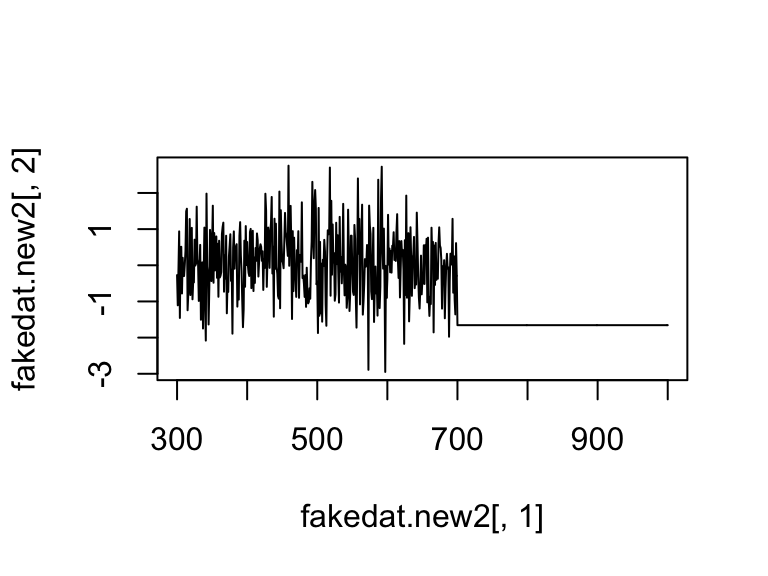
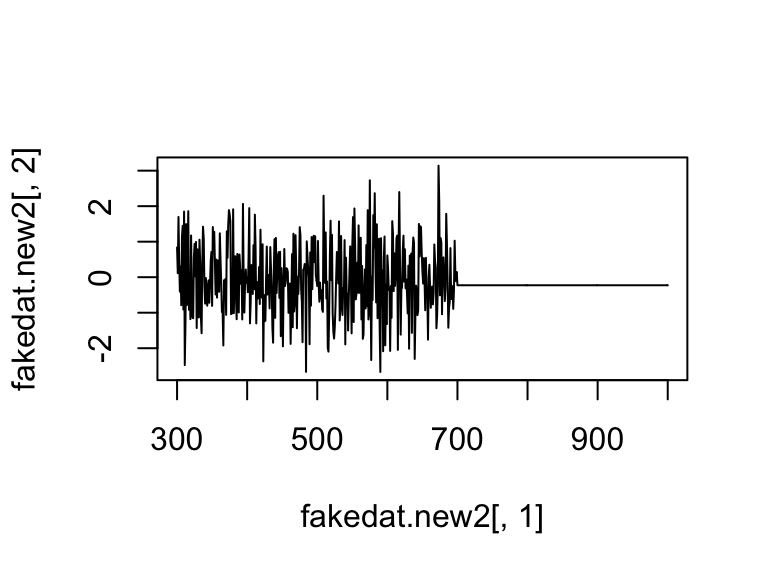
Documentaiton

diff --git a/docs/articles/pavo.html b/docs/articles/pavo.html
@@ -66,7 +66,7 @@
       <h1>pavo</h1>
                         <h4 class="author">Rafael Maia, Thomas White, Hugo Gruson, Pierre-Paul Bitton, Chad Eliason</h4>
             
-            <h4 class="date">2018-08-02</h4>
+            <h4 class="date">2018-08-30</h4>
       
       
       <div class="hidden name"><code>pavo.Rmd</code></div>
@@ -140,13 +140,13 @@
 <a class="sourceLine" id="cb8-6" data-line-number="6">  <span class="dt">wavelength =</span> <span class="kw">seq</span>(<span class="dv">300</span>, <span class="dv">700</span>, <span class="dt">by =</span> <span class="fl">.5</span>)</a>
 <a class="sourceLine" id="cb8-7" data-line-number="7">)</a>
 <a class="sourceLine" id="cb8-8" data-line-number="8"><span class="kw">head</span>(fakedat)</a></code></pre></div>
-<pre><code>##        refl1      refl2 wavelength
-## 1 -0.2717738 -1.1492521      300.0
-## 2 -1.6251267 -0.8761062      300.5
-## 3 -1.1064699 -0.9822639      301.0
-## 4 -2.6062657 -0.9572897      301.5
-## 5 -0.1132692  0.4250670      302.0
-## 6  1.4418470 -1.8073797      302.5</code></pre>
+<pre><code>##        refl1       refl2 wavelength
+## 1  0.8374899 -0.05249138      300.0
+## 2  0.2527621  0.85527833      300.5
+## 3  0.1134501  0.41464640      301.0
+## 4 -1.0493139  0.93132595      301.5
+## 5  1.6956411  0.15561069      302.0
+## 6 -0.7521044  0.60951493      302.5</code></pre>
 <div class="sourceCode" id="cb10"><pre class="sourceCode r"><code class="sourceCode r"><a class="sourceLine" id="cb10-1" data-line-number="1"><span class="kw"><a href="../reference/as.rspec.html">is.rspec</a></span>(fakedat)</a></code></pre></div>
 <pre><code>## [1] FALSE</code></pre>
 <div class="sourceCode" id="cb12"><pre class="sourceCode r"><code class="sourceCode r"><a class="sourceLine" id="cb12-1" data-line-number="1">fakedat.new &lt;-<span class="st"> </span><span class="kw"><a href="../reference/as.rspec.html">as.rspec</a></span>(fakedat)</a></code></pre></div>
@@ -154,22 +154,22 @@
 <div class="sourceCode" id="cb14"><pre class="sourceCode r"><code class="sourceCode r"><a class="sourceLine" id="cb14-1" data-line-number="1"><span class="kw"><a href="../reference/as.rspec.html">is.rspec</a></span>(fakedat.new)</a></code></pre></div>
 <pre><code>## [1] TRUE</code></pre>
 <div class="sourceCode" id="cb16"><pre class="sourceCode r"><code class="sourceCode r"><a class="sourceLine" id="cb16-1" data-line-number="1"><span class="kw">head</span>(fakedat.new)</a></code></pre></div>
-<pre><code>##    wl      refl1        refl2
-## 1 300 -0.2717738 -1.149252091
-## 2 301 -1.1064699 -0.982263943
-## 3 302 -0.1132692  0.425067046
-## 4 303  0.9369455  0.212588236
-## 5 304 -1.4559128  1.304499096
-## 6 305  0.5060648  0.006948132</code></pre>
+<pre><code>##    wl      refl1       refl2
+## 1 300  0.8374899 -0.05249138
+## 2 301  0.1134501  0.41464640
+## 3 302  1.6956411  0.15561069
+## 4 303  0.4665528 -0.14511391
+## 5 304 -0.4073117 -0.76738452
+## 6 305  0.3033306  1.02221692</code></pre>
 <p>As can be seen, <code>as.rspec</code> renames the column containing wavelengths, sets it as the first column, interpolates the data in 1-nm bins and converts the data to an <code>rspec</code> object. Note that the same output is returned with specifying <code>whichwl = 3</code>:</p>
 <div class="sourceCode" id="cb18"><pre class="sourceCode r"><code class="sourceCode r"><a class="sourceLine" id="cb18-1" data-line-number="1"><span class="kw">head</span>(<span class="kw"><a href="../reference/as.rspec.html">as.rspec</a></span>(fakedat, <span class="dt">whichwl =</span> <span class="dv">3</span>))</a></code></pre></div>
-<pre><code>##    wl      refl1        refl2
-## 1 300 -0.2717738 -1.149252091
-## 2 301 -1.1064699 -0.982263943
-## 3 302 -0.1132692  0.425067046
-## 4 303  0.9369455  0.212588236
-## 5 304 -1.4559128  1.304499096
-## 6 305  0.5060648  0.006948132</code></pre>
+<pre><code>##    wl      refl1       refl2
+## 1 300  0.8374899 -0.05249138
+## 2 301  0.1134501  0.41464640
+## 3 302  1.6956411  0.15561069
+## 4 303  0.4665528 -0.14511391
+## 5 304 -0.4073117 -0.76738452
+## 6 305  0.3033306  1.02221692</code></pre>
 <p>Finally, the <code>lim</code> argument allows you to specify the range of wavelengths contained in the input dataset. This is useful either in the case that the dataset doesn’t contain this information (and hence you cannot specify the column with <code>whichwl</code> or automatically find the column with <code>as.rspec</code>). Additionally, it may be useful to focus on a subset of wavelength. In our example, the wavelengths ranged from 300 to 700 nm, however you could also specify a restricted range of wavelengths with <code>lim</code>:</p>
 <div class="sourceCode" id="cb20"><pre class="sourceCode r"><code class="sourceCode r"><a class="sourceLine" id="cb20-1" data-line-number="1">fakedat.new2 &lt;-<span class="st"> </span><span class="kw"><a href="../reference/as.rspec.html">as.rspec</a></span>(fakedat, <span class="dt">lim =</span> <span class="kw">c</span>(<span class="dv">300</span>, <span class="dv">500</span>))</a></code></pre></div>
 <pre><code>## wavelengths found in column 3</code></pre>
@@ -1370,7 +1370,7 @@ V_{smallest}\]</span> and <span class="math display">\[V_{both} = V_{overlap} / 
 <div class="sourceCode" id="cb166"><pre class="sourceCode r"><code class="sourceCode r"><a class="sourceLine" id="cb166-1" data-line-number="1"><span class="kw"><a href="../reference/as.rimg.html">is.rimg</a></span>(butterflies)</a></code></pre></div>
 <pre><code>## [1] TRUE</code></pre>
 <div class="sourceCode" id="cb168"><pre class="sourceCode r"><code class="sourceCode r"><a class="sourceLine" id="cb168-1" data-line-number="1"><span class="kw">str</span>(butterflies[[<span class="dv">1</span>]])</a></code></pre></div>
-<pre><code>##  'rimg' num [1:500, 1:340, 1:3] 1 1 1 1 1 1 1 1 1 1 ...
+<pre><code>##  rimg [1:500, 1:340, 1:3] 1 1 1 1 1 1 1 1 1 1 ...
 ##  - attr(*, "state")= chr "raw"
 ##  - attr(*, "imgname")= chr "h_melpomene"
 ##  - attr(*, "px_scale")= logi NA
@@ -1380,7 +1380,7 @@ V_{smallest}\]</span> and <span class="math display">\[V_{both} = V_{overlap} / 
 ##  - attr(*, "colnames")= logi NA
 ##  - attr(*, "tag_loc")= logi NA</code></pre>
 <div class="sourceCode" id="cb170"><pre class="sourceCode r"><code class="sourceCode r"><a class="sourceLine" id="cb170-1" data-line-number="1"><span class="kw">str</span>(butterflies[[<span class="dv">2</span>]])</a></code></pre></div>
-<pre><code>##  'rimg' num [1:500, 1:398, 1:3] 1 1 1 1 1 1 1 1 1 1 ...
+<pre><code>##  rimg [1:500, 1:398, 1:3] 1 1 1 1 1 1 1 1 1 1 ...
 ##  - attr(*, "state")= chr "raw"
 ##  - attr(*, "imgname")= chr "papilio"
 ##  - attr(*, "px_scale")= logi NA
@@ -1400,7 +1400,7 @@ V_{smallest}\]</span> and <span class="math display">\[V_{both} = V_{overlap} / 
 <a class="sourceLine" id="cb172-8" data-line-number="8"><span class="kw"><a href="../reference/as.rimg.html">is.rimg</a></span>(fake_rimg)</a></code></pre></div>
 <pre><code>## [1] TRUE</code></pre>
 <div class="sourceCode" id="cb174"><pre class="sourceCode r"><code class="sourceCode r"><a class="sourceLine" id="cb174-1" data-line-number="1"><span class="kw">str</span>(fake_rimg)</a></code></pre></div>
-<pre><code>##  'rimg' num [1:12, 1:8, 1:3] 1 1 0 0 1 1 0 0 1 1 ...
+<pre><code>##  rimg [1:12, 1:8, 1:3] 1 1 0 0 1 1 0 0 1 1 ...
 ##  - attr(*, "state")= chr "raw"
 ##  - attr(*, "imgname")= chr "img"
 ##  - attr(*, "px_scale")= logi NA

diff --git a/docs/reference/tcsplot.html b/docs/reference/tcsplot.html
@@ -116,14 +116,15 @@ colorspace using OpenGL capabilities.</p>
     </div>
 
     <pre class="usage"><span class='fu'>tcsplot</span>(<span class='no'>tcsdata</span>, <span class='kw'>size</span> <span class='kw'>=</span> <span class='fl'>0.02</span>, <span class='kw'>alpha</span> <span class='kw'>=</span> <span class='fl'>1</span>, <span class='kw'>col</span> <span class='kw'>=</span> <span class='st'>"black"</span>,
-  <span class='kw'>vertexsize</span> <span class='kw'>=</span> <span class='fl'>0.02</span>, <span class='kw'>achro</span> <span class='kw'>=</span> <span class='fl'>TRUE</span>, <span class='kw'>achrosize</span> <span class='kw'>=</span> <span class='fl'>0.01</span>, <span class='kw'>achrocol</span> <span class='kw'>=</span> <span class='st'>"grey"</span>,
-  <span class='kw'>lwd</span> <span class='kw'>=</span> <span class='fl'>1</span>, <span class='kw'>lcol</span> <span class='kw'>=</span> <span class='st'>"lightgrey"</span>, <span class='kw'>new</span> <span class='kw'>=</span> <span class='fl'>FALSE</span>, <span class='kw'>hspin</span> <span class='kw'>=</span> <span class='fl'>FALSE</span>,
-  <span class='kw'>vspin</span> <span class='kw'>=</span> <span class='fl'>FALSE</span>, <span class='kw'>floor</span> <span class='kw'>=</span> <span class='fl'>TRUE</span>, <span class='kw'>grid</span> <span class='kw'>=</span> <span class='fl'>TRUE</span>, <span class='kw'>fill</span> <span class='kw'>=</span> <span class='fl'>TRUE</span>)
+  <span class='kw'>vertexsize</span> <span class='kw'>=</span> <span class='fl'>0.02</span>, <span class='kw'>achro</span> <span class='kw'>=</span> <span class='fl'>TRUE</span>, <span class='kw'>achrosize</span> <span class='kw'>=</span> <span class='fl'>0.01</span>,
+  <span class='kw'>achrocol</span> <span class='kw'>=</span> <span class='st'>"grey"</span>, <span class='kw'>lwd</span> <span class='kw'>=</span> <span class='fl'>1</span>, <span class='kw'>lcol</span> <span class='kw'>=</span> <span class='st'>"lightgrey"</span>, <span class='kw'>new</span> <span class='kw'>=</span> <span class='fl'>FALSE</span>,
+  <span class='kw'>hspin</span> <span class='kw'>=</span> <span class='fl'>FALSE</span>, <span class='kw'>vspin</span> <span class='kw'>=</span> <span class='fl'>FALSE</span>, <span class='kw'>floor</span> <span class='kw'>=</span> <span class='fl'>TRUE</span>, <span class='kw'>grid</span> <span class='kw'>=</span> <span class='fl'>TRUE</span>,
+  <span class='kw'>fill</span> <span class='kw'>=</span> <span class='fl'>TRUE</span>)
 
 <span class='fu'>tcspoints</span>(<span class='no'>tcsdata</span>, <span class='kw'>size</span> <span class='kw'>=</span> <span class='fl'>0.02</span>, <span class='kw'>col</span> <span class='kw'>=</span> <span class='st'>"black"</span>, <span class='kw'>alpha</span> <span class='kw'>=</span> <span class='fl'>1</span>)
 
-<span class='fu'>tcsvol</span>(<span class='no'>tcsdata</span>, <span class='kw'>col</span> <span class='kw'>=</span> <span class='st'>"black"</span>, <span class='kw'>alpha</span> <span class='kw'>=</span> <span class='fl'>0.2</span>, <span class='kw'>grid.alpha</span> <span class='kw'>=</span> <span class='fl'>1</span>, <span class='kw'>grid</span> <span class='kw'>=</span> <span class='fl'>TRUE</span>,
-  <span class='kw'>fill</span> <span class='kw'>=</span> <span class='fl'>TRUE</span>, <span class='kw'>lwd</span> <span class='kw'>=</span> <span class='fl'>1</span>)</pre>
+<span class='fu'>tcsvol</span>(<span class='no'>tcsdata</span>, <span class='kw'>col</span> <span class='kw'>=</span> <span class='st'>"black"</span>, <span class='kw'>alpha</span> <span class='kw'>=</span> <span class='fl'>0.2</span>, <span class='kw'>grid.alpha</span> <span class='kw'>=</span> <span class='fl'>1</span>,
+  <span class='kw'>grid</span> <span class='kw'>=</span> <span class='fl'>TRUE</span>, <span class='kw'>fill</span> <span class='kw'>=</span> <span class='fl'>TRUE</span>, <span class='kw'>lwd</span> <span class='kw'>=</span> <span class='fl'>1</span>)</pre>
     
     <h2 class="hasAnchor" id="arguments"><a class="anchor" href="#arguments"></a>Arguments</h2>
     <table class="ref-arguments">
@@ -228,7 +229,7 @@ using functions of the package <code>rgl</code>, based on openGL capabilities.</
 <span class='fu'>data</span>(<span class='no'>sicalis</span>)
 <span class='no'>vis.sicalis</span> <span class='kw'>&lt;-</span> <span class='fu'><a href='vismodel.html'>vismodel</a></span>(<span class='no'>sicalis</span>, <span class='kw'>visual</span> <span class='kw'>=</span> <span class='st'>'avg.uv'</span>)
 <span class='no'>tcs.sicalis</span> <span class='kw'>&lt;-</span> <span class='fu'><a href='colspace.html'>colspace</a></span>(<span class='no'>vis.sicalis</span>, <span class='kw'>space</span> <span class='kw'>=</span> <span class='st'>'tcs'</span>)
-<span class='fu'>plot</span>(<span class='no'>tcs.sicalis</span>, <span class='kw'>size</span> <span class='kw'>=</span> <span class='fl'>0.005</span>)
+<span class='fu'>tcsplot</span>(<span class='no'>tcs.sicalis</span>, <span class='kw'>size</span> <span class='kw'>=</span> <span class='fl'>0.005</span>)
 <span class='fu'>rgl.postscript</span>(<span class='st'>'testplot.pdf'</span>,<span class='kw'>fmt</span><span class='kw'>=</span><span class='st'>'pdf'</span>)
 <span class='fu'>rgl.snapshot</span>(<span class='st'>'testplot.png'</span>)
 
@@ -236,12 +237,12 @@ using functions of the package <code>rgl</code>, based on openGL capabilities.</
 <span class='no'>patch</span> <span class='kw'>&lt;-</span> <span class='fu'>rep</span>(<span class='fu'>c</span>(<span class='st'>'C'</span>, <span class='st'>'T'</span>, <span class='st'>'B'</span>), <span class='fl'>7</span>)
 <span class='no'>tcs.crown</span> <span class='kw'>&lt;-</span> <span class='fu'>subset</span>(<span class='no'>tcs.sicalis</span>, <span class='st'>'C'</span>)
 <span class='no'>tcs.breast</span> <span class='kw'>&lt;-</span> <span class='fu'>subset</span>(<span class='no'>tcs.sicalis</span>, <span class='st'>'B'</span>)
-<span class='fu'>plot</span>(<span class='no'>tcs.crown</span>, <span class='kw'>col</span> <span class='kw'>=</span><span class='st'>'blue'</span>)
-<span class='fu'>points</span>(<span class='no'>tcs.breast</span>, <span class='kw'>col</span> <span class='kw'>=</span><span class='st'>'red'</span>)
+<span class='fu'>tcsplot</span>(<span class='no'>tcs.crown</span>, <span class='kw'>col</span> <span class='kw'>=</span><span class='st'>'blue'</span>)
+<span class='fu'>tcspoints</span>(<span class='no'>tcs.breast</span>, <span class='kw'>col</span> <span class='kw'>=</span><span class='st'>'red'</span>)
 
 <span class='co'># For plotting convex hull</span>
-<span class='fu'>plot</span>(<span class='no'>tcs.sicalis</span>, <span class='kw'>col</span> <span class='kw'>=</span> <span class='st'>'blue'</span>, <span class='kw'>size</span> <span class='kw'>=</span> <span class='fl'>0.005</span>)
-<span class='fu'><a href='vol.html'>vol</a></span>(<span class='no'>tcs.sicalis</span>)
+<span class='fu'>tcsplot</span>(<span class='no'>tcs.sicalis</span>, <span class='kw'>col</span> <span class='kw'>=</span> <span class='st'>'blue'</span>, <span class='kw'>size</span> <span class='kw'>=</span> <span class='fl'>0.005</span>)
+<span class='fu'>tcsvol</span>(<span class='no'>tcs.sicalis</span>)
 <span class='co'># }</span><div class='input'>
 </div></pre>
   </div>

diff --git a/docs/reference/tetraplot.html b/docs/reference/tetraplot.html
@@ -111,10 +111,11 @@
 
     <pre class="usage"><span class='fu'>tetraplot</span>(<span class='no'>tcsdata</span>, <span class='kw'>theta</span> <span class='kw'>=</span> <span class='fl'>45</span>, <span class='kw'>phi</span> <span class='kw'>=</span> <span class='fl'>10</span>, <span class='kw'>perspective</span> <span class='kw'>=</span> <span class='fl'>FALSE</span>,
   <span class='kw'>range</span> <span class='kw'>=</span> <span class='fu'>c</span>(<span class='fl'>1</span>, <span class='fl'>2</span>), <span class='kw'>r</span> <span class='kw'>=</span> <span class='fl'>1e+06</span>, <span class='kw'>zoom</span> <span class='kw'>=</span> <span class='fl'>1</span>, <span class='kw'>achro</span> <span class='kw'>=</span> <span class='fl'>TRUE</span>,
-  <span class='kw'>achro.col</span> <span class='kw'>=</span> <span class='st'>"grey"</span>, <span class='kw'>achro.size</span> <span class='kw'>=</span> <span class='fl'>1</span>, <span class='kw'>achro.line</span> <span class='kw'>=</span> <span class='fl'>FALSE</span>, <span class='kw'>achro.lwd</span> <span class='kw'>=</span> <span class='fl'>1</span>,
-  <span class='kw'>achro.lty</span> <span class='kw'>=</span> <span class='fl'>3</span>, <span class='kw'>tetrahedron</span> <span class='kw'>=</span> <span class='fl'>TRUE</span>, <span class='kw'>vert.cex</span> <span class='kw'>=</span> <span class='fl'>1</span>, <span class='kw'>vert.range</span> <span class='kw'>=</span> <span class='fu'>c</span>(<span class='fl'>1</span>, <span class='fl'>2</span>),
-  <span class='kw'>out.lwd</span> <span class='kw'>=</span> <span class='fl'>1</span>, <span class='kw'>out.lcol</span> <span class='kw'>=</span> <span class='st'>"darkgrey"</span>, <span class='kw'>margin</span> <span class='kw'>=</span> <span class='fu'>c</span>(<span class='fl'>0</span>, <span class='fl'>0</span>, <span class='fl'>0</span>, <span class='fl'>0</span>),
-  <span class='kw'>type</span> <span class='kw'>=</span> <span class='st'>"p"</span>, <span class='no'>view</span>, <span class='no'>scale.y</span>, <span class='no'>axis</span>, <span class='no'>grid</span>, <span class='no'>vertexsize</span>, <span class='no'>...</span>)</pre>
+  <span class='kw'>achro.col</span> <span class='kw'>=</span> <span class='st'>"grey"</span>, <span class='kw'>achro.size</span> <span class='kw'>=</span> <span class='fl'>1</span>, <span class='kw'>achro.line</span> <span class='kw'>=</span> <span class='fl'>FALSE</span>,
+  <span class='kw'>achro.lwd</span> <span class='kw'>=</span> <span class='fl'>1</span>, <span class='kw'>achro.lty</span> <span class='kw'>=</span> <span class='fl'>3</span>, <span class='kw'>tetrahedron</span> <span class='kw'>=</span> <span class='fl'>TRUE</span>, <span class='kw'>vert.cex</span> <span class='kw'>=</span> <span class='fl'>1</span>,
+  <span class='kw'>vert.range</span> <span class='kw'>=</span> <span class='fu'>c</span>(<span class='fl'>1</span>, <span class='fl'>2</span>), <span class='kw'>out.lwd</span> <span class='kw'>=</span> <span class='fl'>1</span>, <span class='kw'>out.lcol</span> <span class='kw'>=</span> <span class='st'>"darkgrey"</span>,
+  <span class='kw'>margin</span> <span class='kw'>=</span> <span class='fu'>c</span>(<span class='fl'>0</span>, <span class='fl'>0</span>, <span class='fl'>0</span>, <span class='fl'>0</span>), <span class='kw'>type</span> <span class='kw'>=</span> <span class='st'>"p"</span>, <span class='no'>view</span>, <span class='no'>scale.y</span>, <span class='no'>axis</span>, <span class='no'>grid</span>,
+  <span class='no'>vertexsize</span>, <span class='kw'>labels</span> <span class='kw'>=</span> <span class='fl'>FALSE</span>, <span class='no'>...</span>)</pre>
     
     <h2 class="hasAnchor" id="arguments"><a class="anchor" href="#arguments"></a>Arguments</h2>
     <table class="ref-arguments">
@@ -158,8 +159,8 @@ See <code>persp</code> for details.</p></td>
       <td><p>logical. Should the achromatic center be plotted? (defaults to <code>TRUE</code>)</p></td>
     </tr>
     <tr>
-      <th>achro.col, </th>
-      <td><p>achro.size, achro.lwd, achro.lty graphical parameters for the achromatic coordinates.</p></td>
+      <th>achro.col, achro.size, achro.lwd, achro.lty</th>
+      <td><p>graphical parameters for the achromatic coordinates.</p></td>
     </tr>
     <tr>
       <th>achro.line</th>
@@ -174,8 +175,8 @@ See <code>persp</code> for details.</p></td>
       <td><p>size of the points at the vertices (defaults to 1).</p></td>
     </tr>
     <tr>
-      <th>out.lwd, </th>
-      <td><p>out.lcol graphical parameters for the tetrahedral outline.</p></td>
+      <th>out.lwd, out.lcol</th>
+      <td><p>graphical parameters for the tetrahedral outline.</p></td>
     </tr>
     <tr>
       <th>margin</th>
@@ -187,8 +188,13 @@ See <code>persp</code> for details.</p></td>
 the base of the tetrahedron.</p></td>
     </tr>
     <tr>
-      <th>view, </th>
-      <td><p>scale.y, axis, grid deprecated arguments.</p></td>
+      <th>view, scale.y, axis, grid</th>
+      <td><p>deprecated arguments.</p></td>
+    </tr>
+    <tr>
+      <th>labels</th>
+      <td><p>logical. Should the name of each cone be printed next to the
+corresponding vertex?</p></td>
     </tr>
     </table>
     

diff --git a/docs/reference/vismodel.html b/docs/reference/vismodel.html
@@ -111,13 +111,14 @@ can be returned, for use in a suite of colorspace and non-colorspace models.</p>
     
     </div>
 
-    <pre class="usage"><span class='fu'>vismodel</span>(<span class='no'>rspecdata</span>, <span class='kw'>visual</span> <span class='kw'>=</span> <span class='fu'>c</span>(<span class='st'>"avg.uv"</span>, <span class='st'>"avg.v"</span>, <span class='st'>"bluetit"</span>, <span class='st'>"ctenophorus"</span>,
-  <span class='st'>"star"</span>, <span class='st'>"pfowl"</span>, <span class='st'>"apis"</span>, <span class='st'>"canis"</span>, <span class='st'>"cie2"</span>, <span class='st'>"cie10"</span>, <span class='st'>"musca"</span>, <span class='st'>"segment"</span>,
-  <span class='st'>"habronattus"</span>, <span class='st'>"rhinecanthus"</span>), <span class='kw'>achromatic</span> <span class='kw'>=</span> <span class='fu'>c</span>(<span class='st'>"none"</span>, <span class='st'>"bt.dc"</span>, <span class='st'>"ch.dc"</span>,
-  <span class='st'>"st.dc"</span>, <span class='st'>"md.r1"</span>, <span class='st'>"ra.dc"</span>, <span class='st'>"ml"</span>, <span class='st'>"l"</span>, <span class='st'>"all"</span>), <span class='kw'>illum</span> <span class='kw'>=</span> <span class='fu'>c</span>(<span class='st'>"ideal"</span>, <span class='st'>"bluesky"</span>,
-  <span class='st'>"D65"</span>, <span class='st'>"forestshade"</span>), <span class='kw'>trans</span> <span class='kw'>=</span> <span class='fu'>c</span>(<span class='st'>"ideal"</span>, <span class='st'>"bluetit"</span>, <span class='st'>"blackbird"</span>),
-  <span class='kw'>qcatch</span> <span class='kw'>=</span> <span class='fu'>c</span>(<span class='st'>"Qi"</span>, <span class='st'>"fi"</span>, <span class='st'>"Ei"</span>), <span class='kw'>bkg</span> <span class='kw'>=</span> <span class='fu'>c</span>(<span class='st'>"ideal"</span>, <span class='st'>"green"</span>),
-  <span class='kw'>vonkries</span> <span class='kw'>=</span> <span class='fl'>FALSE</span>, <span class='kw'>scale</span> <span class='kw'>=</span> <span class='fl'>1</span>, <span class='kw'>relative</span> <span class='kw'>=</span> <span class='fl'>TRUE</span>)</pre>
+    <pre class="usage"><span class='fu'>vismodel</span>(<span class='no'>rspecdata</span>, <span class='kw'>visual</span> <span class='kw'>=</span> <span class='fu'>c</span>(<span class='st'>"avg.uv"</span>, <span class='st'>"avg.v"</span>, <span class='st'>"bluetit"</span>,
+  <span class='st'>"ctenophorus"</span>, <span class='st'>"star"</span>, <span class='st'>"pfowl"</span>, <span class='st'>"apis"</span>, <span class='st'>"canis"</span>, <span class='st'>"cie2"</span>, <span class='st'>"cie10"</span>,
+  <span class='st'>"musca"</span>, <span class='st'>"segment"</span>, <span class='st'>"habronattus"</span>, <span class='st'>"rhinecanthus"</span>),
+  <span class='kw'>achromatic</span> <span class='kw'>=</span> <span class='fu'>c</span>(<span class='st'>"none"</span>, <span class='st'>"bt.dc"</span>, <span class='st'>"ch.dc"</span>, <span class='st'>"st.dc"</span>, <span class='st'>"md.r1"</span>, <span class='st'>"ra.dc"</span>,
+  <span class='st'>"ml"</span>, <span class='st'>"l"</span>, <span class='st'>"all"</span>), <span class='kw'>illum</span> <span class='kw'>=</span> <span class='fu'>c</span>(<span class='st'>"ideal"</span>, <span class='st'>"bluesky"</span>, <span class='st'>"D65"</span>, <span class='st'>"forestshade"</span>),
+  <span class='kw'>trans</span> <span class='kw'>=</span> <span class='fu'>c</span>(<span class='st'>"ideal"</span>, <span class='st'>"bluetit"</span>, <span class='st'>"blackbird"</span>), <span class='kw'>qcatch</span> <span class='kw'>=</span> <span class='fu'>c</span>(<span class='st'>"Qi"</span>, <span class='st'>"fi"</span>,
+  <span class='st'>"Ei"</span>), <span class='kw'>bkg</span> <span class='kw'>=</span> <span class='fu'>c</span>(<span class='st'>"ideal"</span>, <span class='st'>"green"</span>), <span class='kw'>vonkries</span> <span class='kw'>=</span> <span class='fl'>FALSE</span>, <span class='kw'>scale</span> <span class='kw'>=</span> <span class='fl'>1</span>,
+  <span class='kw'>relative</span> <span class='kw'>=</span> <span class='fl'>TRUE</span>)</pre>
     
     <h2 class="hasAnchor" id="arguments"><a class="anchor" href="#arguments"></a>Arguments</h2>
     <table class="ref-arguments">

diff --git a/docs/reference/sensdata.html b/docs/reference/sensdata.html
@@ -110,11 +110,11 @@
     </div>
 
     <pre class="usage"><span class='fu'>sensdata</span>(<span class='kw'>visual</span> <span class='kw'>=</span> <span class='fu'>c</span>(<span class='st'>"none"</span>, <span class='st'>"all"</span>, <span class='st'>"avg.uv"</span>, <span class='st'>"avg.v"</span>, <span class='st'>"bluetit"</span>,
-  <span class='st'>"ctenophorus"</span>, <span class='st'>"star"</span>, <span class='st'>"pfowl"</span>, <span class='st'>"apis"</span>, <span class='st'>"canis"</span>, <span class='st'>"cie2"</span>, <span class='st'>"cie10"</span>, <span class='st'>"musca"</span>,
-  <span class='st'>"habronattus"</span>, <span class='st'>"rhinecanthus"</span>), <span class='kw'>achromatic</span> <span class='kw'>=</span> <span class='fu'>c</span>(<span class='st'>"none"</span>, <span class='st'>"all"</span>, <span class='st'>"bt.dc"</span>,
-  <span class='st'>"ch.dc"</span>, <span class='st'>"st.dc"</span>, <span class='st'>"md.r1"</span>, <span class='st'>"ra.dc"</span>), <span class='kw'>illum</span> <span class='kw'>=</span> <span class='fu'>c</span>(<span class='st'>"none"</span>, <span class='st'>"all"</span>, <span class='st'>"bluesky"</span>,
-  <span class='st'>"D65"</span>, <span class='st'>"forestshade"</span>), <span class='kw'>trans</span> <span class='kw'>=</span> <span class='fu'>c</span>(<span class='st'>"none"</span>, <span class='st'>"all"</span>, <span class='st'>"bluetit"</span>, <span class='st'>"blackbird"</span>),
-  <span class='kw'>bkg</span> <span class='kw'>=</span> <span class='fu'>c</span>(<span class='st'>"none"</span>, <span class='st'>"all"</span>, <span class='st'>"green"</span>), <span class='kw'>plot</span> <span class='kw'>=</span> <span class='fl'>FALSE</span>, <span class='no'>...</span>)</pre>
+  <span class='st'>"ctenophorus"</span>, <span class='st'>"star"</span>, <span class='st'>"pfowl"</span>, <span class='st'>"apis"</span>, <span class='st'>"canis"</span>, <span class='st'>"cie2"</span>, <span class='st'>"cie10"</span>,
+  <span class='st'>"musca"</span>, <span class='st'>"habronattus"</span>, <span class='st'>"rhinecanthus"</span>), <span class='kw'>achromatic</span> <span class='kw'>=</span> <span class='fu'>c</span>(<span class='st'>"none"</span>, <span class='st'>"all"</span>,
+  <span class='st'>"bt.dc"</span>, <span class='st'>"ch.dc"</span>, <span class='st'>"st.dc"</span>, <span class='st'>"md.r1"</span>, <span class='st'>"ra.dc"</span>), <span class='kw'>illum</span> <span class='kw'>=</span> <span class='fu'>c</span>(<span class='st'>"none"</span>, <span class='st'>"all"</span>,
+  <span class='st'>"bluesky"</span>, <span class='st'>"D65"</span>, <span class='st'>"forestshade"</span>), <span class='kw'>trans</span> <span class='kw'>=</span> <span class='fu'>c</span>(<span class='st'>"none"</span>, <span class='st'>"all"</span>, <span class='st'>"bluetit"</span>,
+  <span class='st'>"blackbird"</span>), <span class='kw'>bkg</span> <span class='kw'>=</span> <span class='fu'>c</span>(<span class='st'>"none"</span>, <span class='st'>"all"</span>, <span class='st'>"green"</span>), <span class='kw'>plot</span> <span class='kw'>=</span> <span class='fl'>FALSE</span>, <span class='no'>...</span>)</pre>
     
     <h2 class="hasAnchor" id="arguments"><a class="anchor" href="#arguments"></a>Arguments</h2>
     <table class="ref-arguments">

diff --git a/docs/reference/axistetra.html b/docs/reference/axistetra.html
@@ -112,9 +112,9 @@ the axes in a static tetrahedral colorspace plot.</p>
     </div>
 
     <pre class="usage"><span class='fu'>axistetra</span>(<span class='kw'>x</span> <span class='kw'>=</span> <span class='fl'>0</span>, <span class='kw'>y</span> <span class='kw'>=</span> <span class='fl'>1.3</span>, <span class='kw'>size</span> <span class='kw'>=</span> <span class='fl'>0.1</span>, <span class='kw'>arrowhead</span> <span class='kw'>=</span> <span class='fl'>0.05</span>,
-  <span class='kw'>col</span> <span class='kw'>=</span> <span class='fu'>par</span>(<span class='st'>"fg"</span>), <span class='kw'>lty</span> <span class='kw'>=</span> <span class='fu'>par</span>(<span class='st'>"lty"</span>), <span class='kw'>lwd</span> <span class='kw'>=</span> <span class='fu'>par</span>(<span class='st'>"lwd"</span>), <span class='kw'>label</span> <span class='kw'>=</span> <span class='fl'>TRUE</span>,
-  <span class='kw'>adj.label</span> <span class='kw'>=</span> <span class='fu'>list</span>(<span class='kw'>x</span> <span class='kw'>=</span> <span class='fu'>c</span>(<span class='fl'>0.003</span>, <span class='fl'>0</span>), <span class='kw'>y</span> <span class='kw'>=</span> <span class='fu'>c</span>(<span class='fl'>0.003</span>, <span class='fl'>0.003</span>), <span class='kw'>z</span> <span class='kw'>=</span> <span class='fu'>c</span>(<span class='fl'>0</span>, <span class='fl'>0.003</span>)),
-  <span class='kw'>label.cex</span> <span class='kw'>=</span> <span class='fl'>1</span>, <span class='kw'>label.col</span> <span class='kw'>=</span> <span class='kw'>NULL</span>)</pre>
+  <span class='kw'>col</span> <span class='kw'>=</span> <span class='fu'>par</span>(<span class='st'>"fg"</span>), <span class='kw'>lty</span> <span class='kw'>=</span> <span class='fu'>par</span>(<span class='st'>"lty"</span>), <span class='kw'>lwd</span> <span class='kw'>=</span> <span class='fu'>par</span>(<span class='st'>"lwd"</span>),
+  <span class='kw'>label</span> <span class='kw'>=</span> <span class='fl'>TRUE</span>, <span class='kw'>adj.label</span> <span class='kw'>=</span> <span class='fu'>list</span>(<span class='kw'>x</span> <span class='kw'>=</span> <span class='fu'>c</span>(<span class='fl'>0.003</span>, <span class='fl'>0</span>), <span class='kw'>y</span> <span class='kw'>=</span> <span class='fu'>c</span>(<span class='fl'>0.003</span>, <span class='fl'>0.003</span>),
+  <span class='kw'>z</span> <span class='kw'>=</span> <span class='fu'>c</span>(<span class='fl'>0</span>, <span class='fl'>0.003</span>)), <span class='kw'>label.cex</span> <span class='kw'>=</span> <span class='fl'>1</span>, <span class='kw'>label.col</span> <span class='kw'>=</span> <span class='kw'>NULL</span>)</pre>
     
     <h2 class="hasAnchor" id="arguments"><a class="anchor" href="#arguments"></a>Arguments</h2>
     <table class="ref-arguments">

diff --git a/docs/reference/cocplot.html b/docs/reference/cocplot.html
@@ -109,9 +109,9 @@
     
     </div>
 
-    <pre class="usage"><span class='fu'>cocplot</span>(<span class='no'>cocdata</span>, <span class='kw'>labels</span> <span class='kw'>=</span> <span class='fl'>TRUE</span>, <span class='kw'>labels.cex</span> <span class='kw'>=</span> <span class='fl'>0.9</span>, <span class='kw'>tick.loc</span> <span class='kw'>=</span> <span class='fu'>c</span>(-<span class='fl'>12</span>, -<span class='fl'>9</span>,
-  -<span class='fl'>6</span>, -<span class='fl'>3</span>, <span class='fl'>3</span>, <span class='fl'>6</span>, <span class='fl'>9</span>, <span class='fl'>12</span>), <span class='kw'>achro</span> <span class='kw'>=</span> <span class='fl'>FALSE</span>, <span class='kw'>achrosize</span> <span class='kw'>=</span> <span class='fl'>0.8</span>, <span class='kw'>achrocol</span> <span class='kw'>=</span> <span class='st'>"grey"</span>,
-  <span class='kw'>margins</span> <span class='kw'>=</span> <span class='fu'>c</span>(<span class='fl'>1</span>, <span class='fl'>1</span>, <span class='fl'>2</span>, <span class='fl'>2</span>), <span class='kw'>square</span> <span class='kw'>=</span> <span class='fl'>TRUE</span>, <span class='no'>...</span>)</pre>
+    <pre class="usage"><span class='fu'>cocplot</span>(<span class='no'>cocdata</span>, <span class='kw'>labels</span> <span class='kw'>=</span> <span class='fl'>TRUE</span>, <span class='kw'>labels.cex</span> <span class='kw'>=</span> <span class='fl'>0.9</span>, <span class='kw'>tick.loc</span> <span class='kw'>=</span> <span class='fu'>c</span>(-<span class='fl'>12</span>,
+  -<span class='fl'>9</span>, -<span class='fl'>6</span>, -<span class='fl'>3</span>, <span class='fl'>3</span>, <span class='fl'>6</span>, <span class='fl'>9</span>, <span class='fl'>12</span>), <span class='kw'>achro</span> <span class='kw'>=</span> <span class='fl'>FALSE</span>, <span class='kw'>achrosize</span> <span class='kw'>=</span> <span class='fl'>0.8</span>,
+  <span class='kw'>achrocol</span> <span class='kw'>=</span> <span class='st'>"grey"</span>, <span class='kw'>margins</span> <span class='kw'>=</span> <span class='fu'>c</span>(<span class='fl'>1</span>, <span class='fl'>1</span>, <span class='fl'>2</span>, <span class='fl'>2</span>), <span class='kw'>square</span> <span class='kw'>=</span> <span class='fl'>TRUE</span>, <span class='no'>...</span>)</pre>
     
     <h2 class="hasAnchor" id="arguments"><a class="anchor" href="#arguments"></a>Arguments</h2>
     <table class="ref-arguments">

diff --git a/docs/reference/segplot.html b/docs/reference/segplot.html
@@ -109,9 +109,9 @@
     
     </div>
 
-    <pre class="usage"><span class='fu'>segplot</span>(<span class='no'>segdata</span>, <span class='kw'>labels</span> <span class='kw'>=</span> <span class='fl'>TRUE</span>, <span class='kw'>lab.cex</span> <span class='kw'>=</span> <span class='fl'>0.9</span>, <span class='kw'>out.lwd</span> <span class='kw'>=</span> <span class='fl'>1</span>, <span class='kw'>out.lty</span> <span class='kw'>=</span> <span class='fl'>1</span>,
-  <span class='kw'>out.lcol</span> <span class='kw'>=</span> <span class='st'>"black"</span>, <span class='kw'>tick.loc</span> <span class='kw'>=</span> <span class='fu'>c</span>(-<span class='fl'>1</span>, -<span class='fl'>0.5</span>, <span class='fl'>0.5</span>, <span class='fl'>1</span>), <span class='kw'>margins</span> <span class='kw'>=</span> <span class='fu'>c</span>(<span class='fl'>1</span>, <span class='fl'>1</span>, <span class='fl'>2</span>,
-  <span class='fl'>2</span>), <span class='kw'>square</span> <span class='kw'>=</span> <span class='fl'>TRUE</span>, <span class='no'>...</span>)</pre>
+    <pre class="usage"><span class='fu'>segplot</span>(<span class='no'>segdata</span>, <span class='kw'>labels</span> <span class='kw'>=</span> <span class='fl'>TRUE</span>, <span class='kw'>lab.cex</span> <span class='kw'>=</span> <span class='fl'>0.9</span>, <span class='kw'>out.lwd</span> <span class='kw'>=</span> <span class='fl'>1</span>,
+  <span class='kw'>out.lty</span> <span class='kw'>=</span> <span class='fl'>1</span>, <span class='kw'>out.lcol</span> <span class='kw'>=</span> <span class='st'>"black"</span>, <span class='kw'>tick.loc</span> <span class='kw'>=</span> <span class='fu'>c</span>(-<span class='fl'>1</span>, -<span class='fl'>0.5</span>, <span class='fl'>0.5</span>, <span class='fl'>1</span>),
+  <span class='kw'>margins</span> <span class='kw'>=</span> <span class='fu'>c</span>(<span class='fl'>1</span>, <span class='fl'>1</span>, <span class='fl'>2</span>, <span class='fl'>2</span>), <span class='kw'>square</span> <span class='kw'>=</span> <span class='fl'>TRUE</span>, <span class='no'>...</span>)</pre>
     
     <h2 class="hasAnchor" id="arguments"><a class="anchor" href="#arguments"></a>Arguments</h2>
     <table class="ref-arguments">

diff --git a/docs/reference/hexplot.html b/docs/reference/hexplot.html
@@ -109,8 +109,8 @@
     
     </div>
 
-    <pre class="usage"><span class='fu'>hexplot</span>(<span class='no'>hexdata</span>, <span class='kw'>achro</span> <span class='kw'>=</span> <span class='fl'>TRUE</span>, <span class='kw'>labels</span> <span class='kw'>=</span> <span class='fl'>TRUE</span>, <span class='kw'>sectors</span> <span class='kw'>=</span> <span class='fu'>c</span>(<span class='st'>"none"</span>, <span class='st'>"fine"</span>,
-  <span class='st'>"coarse"</span>), <span class='kw'>sec.col</span> <span class='kw'>=</span> <span class='st'>"grey"</span>, <span class='kw'>out.lwd</span> <span class='kw'>=</span> <span class='fl'>1</span>, <span class='kw'>out.lty</span> <span class='kw'>=</span> <span class='fl'>1</span>,
+    <pre class="usage"><span class='fu'>hexplot</span>(<span class='no'>hexdata</span>, <span class='kw'>achro</span> <span class='kw'>=</span> <span class='fl'>TRUE</span>, <span class='kw'>labels</span> <span class='kw'>=</span> <span class='fl'>TRUE</span>, <span class='kw'>sectors</span> <span class='kw'>=</span> <span class='fu'>c</span>(<span class='st'>"none"</span>,
+  <span class='st'>"fine"</span>, <span class='st'>"coarse"</span>), <span class='kw'>sec.col</span> <span class='kw'>=</span> <span class='st'>"grey"</span>, <span class='kw'>out.lwd</span> <span class='kw'>=</span> <span class='fl'>1</span>, <span class='kw'>out.lty</span> <span class='kw'>=</span> <span class='fl'>1</span>,
   <span class='kw'>out.lcol</span> <span class='kw'>=</span> <span class='st'>"black"</span>, <span class='kw'>labels.cex</span> <span class='kw'>=</span> <span class='fl'>1</span>, <span class='kw'>achrosize</span> <span class='kw'>=</span> <span class='fl'>0.8</span>,
   <span class='kw'>achrocol</span> <span class='kw'>=</span> <span class='st'>"grey"</span>, <span class='kw'>margins</span> <span class='kw'>=</span> <span class='fu'>c</span>(<span class='fl'>1</span>, <span class='fl'>1</span>, <span class='fl'>2</span>, <span class='fl'>2</span>), <span class='kw'>square</span> <span class='kw'>=</span> <span class='fl'>TRUE</span>, <span class='no'>...</span>)</pre>
     

diff --git a/docs/reference/jnd2xyz.html b/docs/reference/jnd2xyz.html
@@ -111,9 +111,9 @@ perceptually-corrected (i.e. Euclidean distances = JND distances)</p>
     
     </div>
 
-    <pre class="usage"><span class='fu'>jnd2xyz</span>(<span class='no'>coldistres</span>, <span class='kw'>center</span> <span class='kw'>=</span> <span class='fl'>TRUE</span>, <span class='kw'>rotate</span> <span class='kw'>=</span> <span class='fl'>TRUE</span>, <span class='kw'>rotcenter</span> <span class='kw'>=</span> <span class='fu'>c</span>(<span class='st'>"mean"</span>,
-  <span class='st'>"achro"</span>), <span class='kw'>ref1</span> <span class='kw'>=</span> <span class='st'>"l"</span>, <span class='kw'>ref2</span> <span class='kw'>=</span> <span class='st'>"u"</span>, <span class='kw'>axis1</span> <span class='kw'>=</span> <span class='fu'>c</span>(<span class='fl'>1</span>, <span class='fl'>1</span>, <span class='fl'>0</span>), <span class='kw'>axis2</span> <span class='kw'>=</span> <span class='fu'>c</span>(<span class='fl'>0</span>, <span class='fl'>0</span>,
-  <span class='fl'>1</span>))</pre>
+    <pre class="usage"><span class='fu'>jnd2xyz</span>(<span class='no'>coldistres</span>, <span class='kw'>center</span> <span class='kw'>=</span> <span class='fl'>TRUE</span>, <span class='kw'>rotate</span> <span class='kw'>=</span> <span class='fl'>TRUE</span>,
+  <span class='kw'>rotcenter</span> <span class='kw'>=</span> <span class='fu'>c</span>(<span class='st'>"mean"</span>, <span class='st'>"achro"</span>), <span class='kw'>ref1</span> <span class='kw'>=</span> <span class='st'>"l"</span>, <span class='kw'>ref2</span> <span class='kw'>=</span> <span class='st'>"u"</span>,
+  <span class='kw'>axis1</span> <span class='kw'>=</span> <span class='fu'>c</span>(<span class='fl'>1</span>, <span class='fl'>1</span>, <span class='fl'>0</span>), <span class='kw'>axis2</span> <span class='kw'>=</span> <span class='fu'>c</span>(<span class='fl'>0</span>, <span class='fl'>0</span>, <span class='fl'>1</span>))</pre>
     
     <h2 class="hasAnchor" id="arguments"><a class="anchor" href="#arguments"></a>Arguments</h2>
     <table class="ref-arguments">

diff --git a/docs/reference/getspec.html b/docs/reference/getspec.html
@@ -115,8 +115,8 @@ Avantes (before or after exporting).</p>
     
     </div>
 
-    <pre class="usage"><span class='fu'>getspec</span>(<span class='kw'>where</span> <span class='kw'>=</span> <span class='fu'>getwd</span>(), <span class='kw'>ext</span> <span class='kw'>=</span> <span class='st'>"txt"</span>, <span class='kw'>lim</span> <span class='kw'>=</span> <span class='fu'>c</span>(<span class='fl'>300</span>, <span class='fl'>700</span>), <span class='kw'>decimal</span> <span class='kw'>=</span> <span class='st'>"."</span>,
-  <span class='kw'>sep</span> <span class='kw'>=</span> <span class='kw'>NULL</span>, <span class='kw'>subdir</span> <span class='kw'>=</span> <span class='fl'>FALSE</span>, <span class='kw'>subdir.names</span> <span class='kw'>=</span> <span class='fl'>FALSE</span>,
+    <pre class="usage"><span class='fu'>getspec</span>(<span class='kw'>where</span> <span class='kw'>=</span> <span class='fu'>getwd</span>(), <span class='kw'>ext</span> <span class='kw'>=</span> <span class='st'>"txt"</span>, <span class='kw'>lim</span> <span class='kw'>=</span> <span class='fu'>c</span>(<span class='fl'>300</span>, <span class='fl'>700</span>),
+  <span class='kw'>decimal</span> <span class='kw'>=</span> <span class='st'>"."</span>, <span class='kw'>sep</span> <span class='kw'>=</span> <span class='kw'>NULL</span>, <span class='kw'>subdir</span> <span class='kw'>=</span> <span class='fl'>FALSE</span>, <span class='kw'>subdir.names</span> <span class='kw'>=</span> <span class='fl'>FALSE</span>,
   <span class='kw'>cores</span> <span class='kw'>=</span> <span class='fu'>getOption</span>(<span class='st'>"mc.cores"</span>, <span class='fl'>2L</span>), <span class='kw'>ignore.case</span> <span class='kw'>=</span> <span class='fl'>TRUE</span>, <span class='no'>fast</span>)</pre>
     
     <h2 class="hasAnchor" id="arguments"><a class="anchor" href="#arguments"></a>Arguments</h2>

diff --git a/docs/reference/classify.html b/docs/reference/classify.html
@@ -110,7 +110,8 @@
     </div>
 
     <pre class="usage"><span class='fu'>classify</span>(<span class='no'>imgdat</span>, <span class='kw'>kcols</span> <span class='kw'>=</span> <span class='kw'>NULL</span>, <span class='kw'>refID</span> <span class='kw'>=</span> <span class='kw'>NULL</span>, <span class='kw'>interactive</span> <span class='kw'>=</span> <span class='fl'>FALSE</span>,
-  <span class='kw'>plotnew</span> <span class='kw'>=</span> <span class='fl'>FALSE</span>, <span class='kw'>col</span> <span class='kw'>=</span> <span class='st'>"red"</span>, <span class='kw'>cores</span> <span class='kw'>=</span> <span class='fu'>getOption</span>(<span class='st'>"mc.cores"</span>, <span class='fl'>2L</span>), <span class='no'>...</span>)</pre>
+  <span class='kw'>plotnew</span> <span class='kw'>=</span> <span class='fl'>FALSE</span>, <span class='kw'>col</span> <span class='kw'>=</span> <span class='st'>"red"</span>, <span class='kw'>cores</span> <span class='kw'>=</span> <span class='fu'>getOption</span>(<span class='st'>"mc.cores"</span>, <span class='fl'>2L</span>),
+  <span class='no'>...</span>)</pre>
     
     <h2 class="hasAnchor" id="arguments"><a class="anchor" href="#arguments"></a>Arguments</h2>
     <table class="ref-arguments">
@@ -168,7 +169,7 @@ Also see <code>par</code>.</p></td>
     <h2 class="hasAnchor" id="value"><a class="anchor" href="#value"></a>Value</h2>
 
     <p>A matrix, or list of matrices, of class <code>rimg</code> containing the colour
-class classifications at each pixel location. The RGB values corresponding to
+class classifications ID at each pixel location. The RGB values corresponding to
 k-means centres (i.e. colour classes) are stored as object attributes.</p>
     
     <h2 class="hasAnchor" id="note"><a class="anchor" href="#note"></a>Note</h2>
